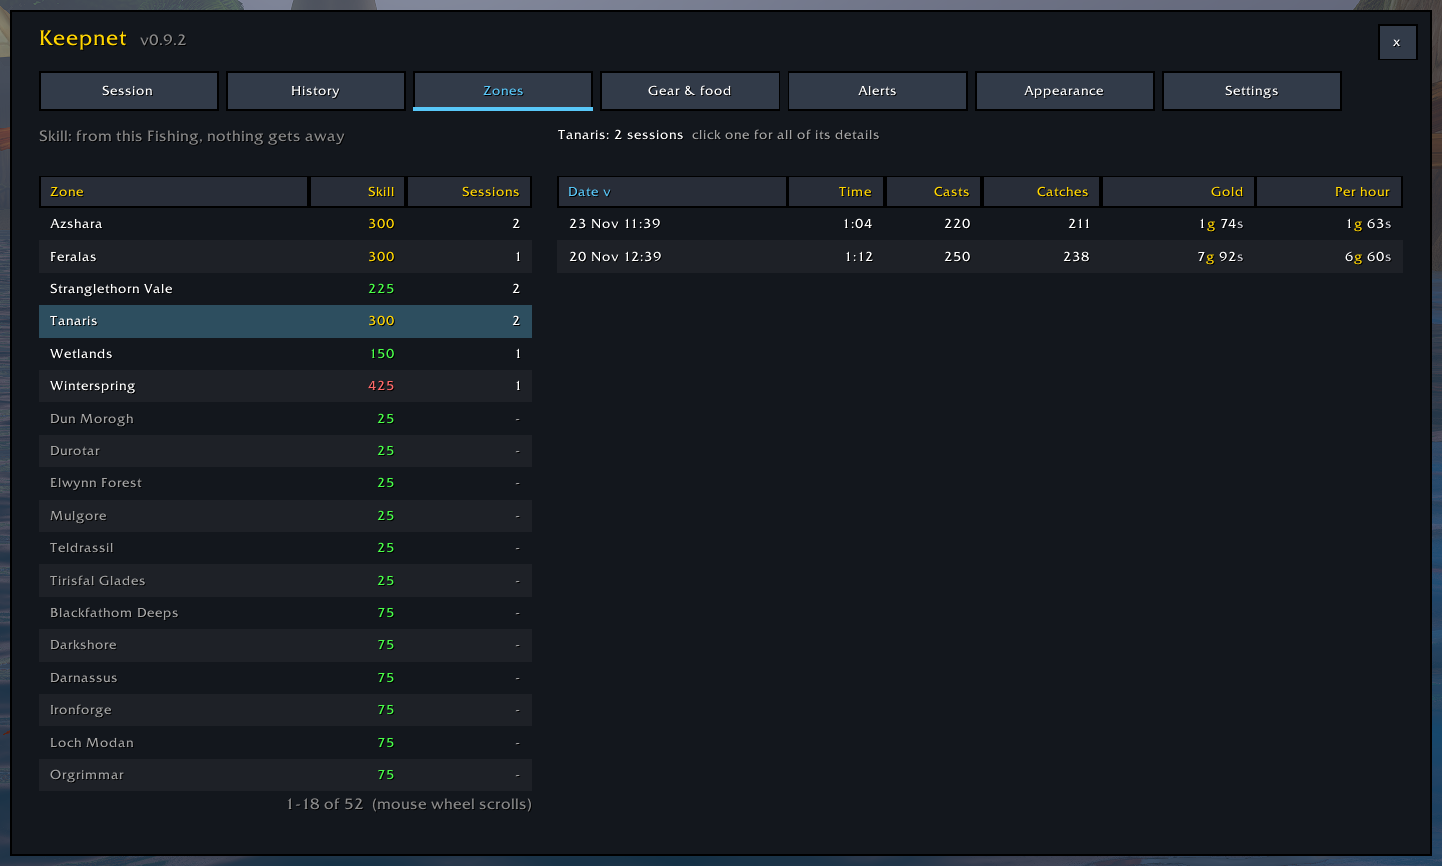
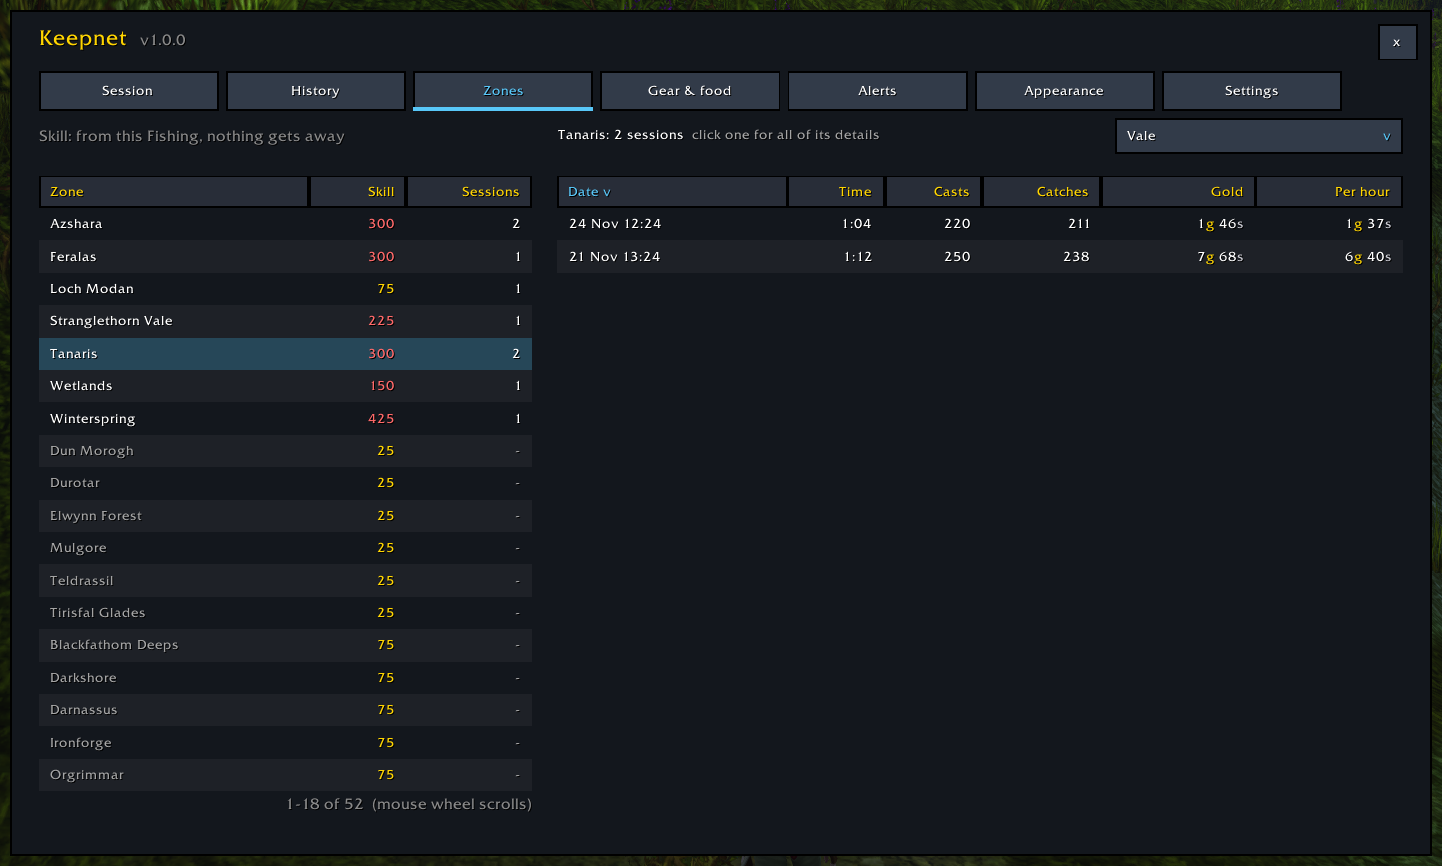
Pictures: History, Zones and the search redone for 1.0.0; what was seen in the game

Changed region(s): [[0.0, 0.0, 1.0, 1.0], [0.4057, 0.2494, 0.4681, 0.3118], [0.8426, 0.2806, 0.8738, 0.3118]]

diff --git a/DEVLOG.md b/DEVLOG.md
@@ -24,6 +24,20 @@ things to look at there are in the notice's own entry below ("Not seen in the ga
 listing's description says what the notice does and how to turn it off since a few minutes
 after the upload (the owner: "add those details in there").
 
+**Seen in the game later on 2026-11-25, in captures taken for new pictures** (the owner set
+the screens up, sample sessions on): the History tab's top row (list of characters, zone
+list, "Today's prices", totals) and the Zones tab's (hint, heading, list of characters) fit
+without touching; the history search works on the list of characters' choice; and, after
+the owner installed the build with the notice and restarted the game, the "New versions"
+block sits at the bottom of the right column of Settings with room to spare, the module
+loads, and its note ends "This is a development copy: it listens and never announces": so
+`C_AddOns.GetAddOnMetadata` does read the custom TOC line on this client. Not yet known from
+that run: whether the channel was joined and stayed out of chat (ask, or read
+`!BugGrabber.lua` and the saved data after the owner's next logout). New pictures in
+`media\screens`: `03-history.png`, `04-zones.png`, `09-find-a-fish.png` (not in the gallery
+yet). The capture of Settings carries the development-copy sentence, which no player's copy
+shows, so it is not a picture for the gallery as it is.
+
 **1.0.0, the update notice (2026-11-25): Keepnet tells the player that a newer version is
 out. It passes its offline tests and is in the repo. It is NOT yet in the owner's game: the
 game holds the 1.0.0 development copy without the notice until `tools\install.ps1` is run
